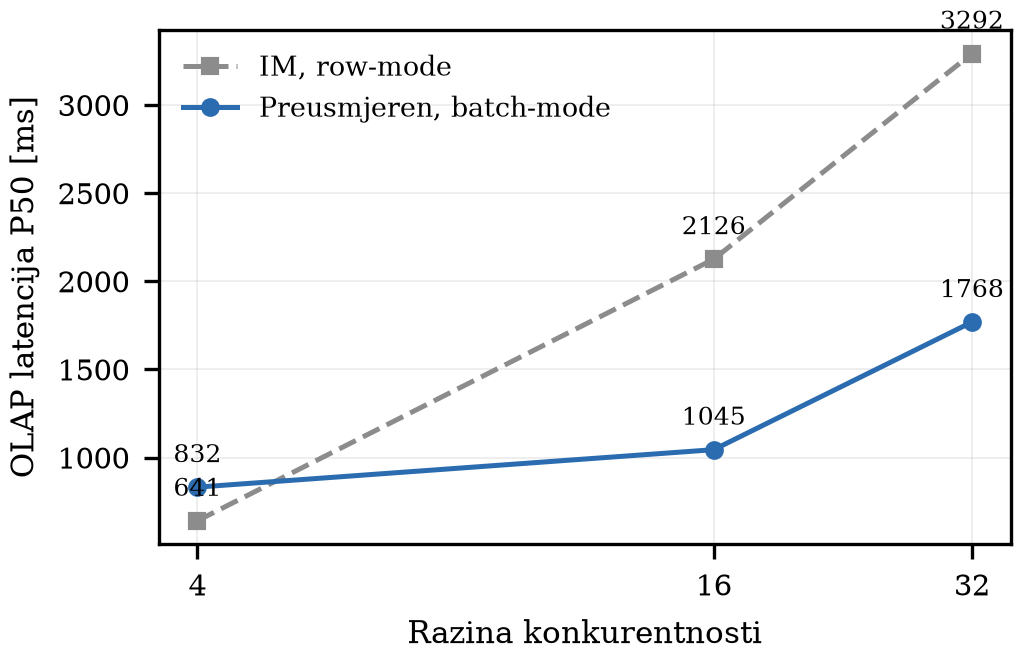
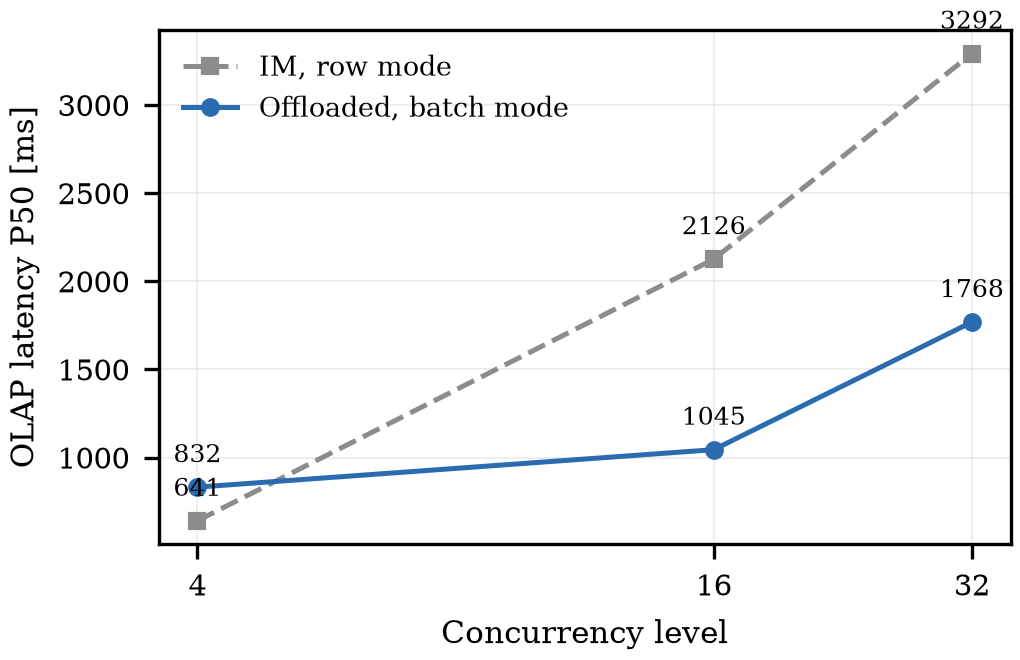
Address review: English figures, IQR bars, non-parametric effect size
Figure labels were in Bosnian while the paper is in English — corrected across
all three figures. The main figure gains interquartile error bars; symmetric
deviation bars would have implied the normality the tests rejected.

Adds 09_reviewer_followup.py, which computes what the review asked for:

Cliff's delta replaces Cohen's d. The paper paired Cohen's d with Mann-Whitney
while stating distributions are non-normal, and "Cohen's d over medians" is not
a defined quantity. Delta belongs to the same rank-based family and equals the
rank-biserial correlation. For the uncontrolled comparison it is 0.989 at C=4
and 1.000 at C=16 and C=32 — complete separation, which is what d values of 4
to 12 were really reporting.

Also computes: CXSYNC_PORT waits under MAXDOP 2, which decide whether the
paper's claim that MAXDOP 1 is required survives; CPU time per completed
analytical query, which separates "parallelism does less work" from
"parallelism drains the queue" as the causal account; the non-monotonic
collapse of the row-mode arms between C=16 and C=32 (baseline -37%, cs -32%,
im -18%, while the offloaded arm rises 22%); per-cell N, which ranges 28-30
rather than a flat 30; and the effect direction across all three workload
ratios, where it holds but is not monotone in concurrency.

Sections needing the control arm are reported as skipped — that data exists
only on the measurement machine and is not yet published.
[…]

Changed region(s): [[0.3951, 0.9394, 0.7598, 1.0], [0.0, 0.1515, 0.0608, 0.7273], [0.2431, 0.1212, 0.6078, 0.1818]]

diff --git a/Analysis/09_reviewer_followup.py b/Analysis/09_reviewer_followup.py
@@ -1,0 +1,272 @@
+"""
+09_reviewer_followup.py — analize koje traze primjedbe na rad.
+
+Svaka sekcija odgovara jednoj primjedbi:
+
+  1. VELICINA EFEKTA. Rad je koristio Cohenov d uz Mann-Whitney, a d je
+     parametrijska mjera preko sredina i pooled devijacije. Uz odbacenu
+     normalnost to je nekonzistentno. Ovdje se racuna Cliffova delta, koja
+     pripada istoj neparametrijskoj porodici kao Mann-Whitney, uz rank-biserial
+     korelaciju kao ekvivalentnu mjeru.
+
+  2. CXSYNC_PORT. Rad tvrdi da je MAXDOP 1 nuzan da se izbjegnu zastoji na
+     memorijsko-optimiziranim tabelama, a istovremeno pokazuje da MAXDOP 2 na
+     tim istim tabelama radi bolje. Ovdje se mjeri koliko tih cekanja zaista
+     ima pri DOP = 2, cime se tvrdnja ili potvrdjuje ili opovrgava.
+
+  3. KAUZALNI RACUN. Tvrdnja "upiti zavrse prije pa oslobode procesor" ne
+     objasnjava sama po sebi dobitak: dvostruko vise niti kroz upola krace
+     vrijeme daje istu trenutnu zauzetost. Ovdje se racuna procesorsko vrijeme
+     po ZAVRSENOM analitickom upitu i broj zavrsenih upita po runu, cime se
+     razlikuju dva objasnjenja:
+       (a) paralelni plan radi MANJE ukupnog posla  -> "paralelizam smanjuje rad"
+       (b) isti posao, ali se upiti pri DOP 1 gomilaju -> "paralelizam rastereti red"
+
+  4. NEMONOTONOST. Propusnost u row-mode rukama pada od C=16 ka C=32. To ide u
+     prilog tezi, ali znaci da dio dobitka nije "vise propusnosti" nego
+     "izbjegnut kolaps" — sto rad treba imenovati.
+
+  5. VELICINA UZORKA. Nisu sve celije imale 30 runova nakon iskljucenja.
+
+  6. SMJER EFEKTA PO OMJERIMA. Rad prikazuje samo 80/20.
+
+POKRETANJE
+----------
+  python Analysis/09_reviewer_followup.py
+"""
+
+from pathlib import Path
+
+import numpy as np
+import pandas as pd
+from scipy import stats
+
+ROOT = Path(__file__).resolve().parent.parent
+RESULTS = ROOT / "Results"
+OUT = RESULTS / "reviewer_followup.txt"
+
+RATIO = "80_20"
+CONCS = [4, 16, 32]
+
+lines: list[str] = []
+
+
+def emit(text: str = "") -> None:
+    print(text)
+    lines.append(text)
+
+
+def cliffs_delta(a: np.ndarray, b: np.ndarray) -> tuple[float, str]:
+    """
+    Cliffova delta: P(a > b) - P(a < b), u rasponu [-1, 1].
+
+    Racuna se preko Mann-Whitney U statistike, sto je egzaktno i izbjegava
+    kvadratno poredjenje svih parova: delta = 2U / (n1 n2) - 1.
+    """
+    n1, n2 = len(a), len(b)
+    if n1 == 0 or n2 == 0:
+        return float("nan"), "n/a"
+    u = stats.mannwhitneyu(a, b, alternative="two-sided").statistic
+    delta = 2.0 * u / (n1 * n2) - 1.0
+
+    ad = abs(delta)
+    if ad < 0.147:
+        label = "zanemariv"
+    elif ad < 0.33:
+        label = "mali"
+    elif ad < 0.474:
+        label = "srednji"
+    else:
+        label = "veliki"
+    return delta, label
+
+
+def load() -> pd.DataFrame:
+    frames = [pd.read_csv(RESULTS / "summary.csv")]
+    for arm in sorted(RESULTS.glob("summary_arm_*.csv")):
+        frames.append(pd.read_csv(arm))
+    df = pd.concat(frames, ignore_index=True)
+    df["Configuration"] = df["Configuration"].str.strip().str.lower()
+    return df[df["OltpSuccessRate"] >= 0.90]
+
+
+def cell(df: pd.DataFrame, cfg: str, col: str, conc: int,
+         ratio: str | None = RATIO) -> np.ndarray:
+    sel = (df.Configuration == cfg) & (df.ConcurrencyLevel == conc)
+    if ratio is not None:
+        sel &= df.OltpOlapRatio == ratio
+    return df.loc[sel, col].dropna().to_numpy()
+
+
+def med(df: pd.DataFrame, cfg: str, col: str, conc: int,
+        ratio: str | None = RATIO) -> float:
+    v = cell(df, cfg, col, conc, ratio)
+    return float(np.median(v)) if len(v) else float("nan")
+
+
+def section_effect_size(df: pd.DataFrame, present: set[str]) -> None:
+    emit("1. VELICINA EFEKTA — Cliffova delta umjesto Cohenovog d")
+    emit("-" * 74)
+    emit("   Delta = P(A > B) - P(A < B). Vrijednost 1,00 znaci potpunu separaciju:")
+    emit("   svaki run jedne ruke nadmasuje svaki run druge.")
+    emit("")
+
+    pairs = [("htap", "im@d2", "smjestaj (OFF vs IM-P)"),
+             ("im@d2", "im", "paralelizam (IM-P vs IM)"),
+             ("htap", "im", "nekontrolirano (OFF vs IM)")]
+
+    for a_cfg, b_cfg, label in pairs:
+        if a_cfg not in present or b_cfg not in present:
+            emit(f"   {label}: ruka nije izmjerena — preskacem")
+            continue
+        emit(f"   {label}")
+        for c in CONCS:
+            a, b = cell(df, a_cfg, "OltpThroughput", c), cell(df, b_cfg, "OltpThroughput", c)
+            if len(a) < 3 or len(b) < 3:
+                continue
+            delta, lab = cliffs_delta(a, b)
+            rb = delta  # rank-biserial korelacija je jednaka Cliffovoj delti
+            _, p = stats.mannwhitneyu(a, b, alternative="two-sided")
+            emit(f"     C={c:>2}: delta = {delta:+.3f} ({lab})   "
+                 f"rank-biserial = {rb:+.3f}   p = {p:.2e}   "
+                 f"N = {len(a)}/{len(b)}")
+        emit("")
+
+
+def section_cxsync(df: pd.DataFrame, present: set[str]) -> None:
+    emit("2. CXSYNC_PORT PRI MAXDOP 2 NA HEKATON TABELAMA")
+    emit("-" * 74)
+    if "im@d2" not in present or "CxSyncPortMs" not in df.columns:
+        emit("   Ruka im@d2 ili kolona brojaca nije dostupna — preskacem.\n")
+        return
+
+    emit("   Rad tvrdi da je MAXDOP 1 nuzan zbog ovih cekanja. Ako su pri DOP 2")
+    emit("   zanemariva, tvrdnju treba oslabiti; ako su znatna, treba objasniti")
+    emit("   zasto ruka svejedno radi bolje.")
+    emit("")
+    emit(f"   {'C':>3}  {'CXSYNC_PORT':>14}  {'CXPACKET+CONSUMER':>20}  {'udio u mjernoj fazi':>21}")
+    for c in CONCS:
+        cx = med(df, "im@d2", "CxSyncPortMs", c)
+        par = med(df, "im@d2", "ParallelismWaitMs", c)
+        if not np.isfinite(cx):
+            continue
+        emit(f"   {c:>3}  {cx / 1000:>11.2f} s  {par / 1000:>17.2f} s  "
+             f"{cx / 60000 * 100:>20.2f} %")
+    emit("")
+
+
+def section_causal(df: pd.DataFrame, present: set[str]) -> None:
+    emit("3. KAUZALNI RACUN — gdje odlazi procesorsko vrijeme")
+    emit("-" * 74)
+
+    emit("   (a) Zavrseni analiticki upiti po runu (medijan)")
+    emit(f"       {'C':>3}  {'IM (DOP 1)':>12}  {'IM-P (DOP 2)':>14}  {'OFF':>10}  {'IM-P / IM':>11}")
+    for c in CONCS:
+        im = med(df, "im", "OlapTotalOps", c)
+        imp = med(df, "im@d2", "OlapTotalOps", c) if "im@d2" in present else float("nan")
+        off = med(df, "htap", "OlapTotalOps", c)
+        ratio = imp / im if np.isfinite(imp) and im else float("nan")
+        emit(f"       {c:>3}  {im:>12,.0f}  {imp:>14,.0f}  {off:>10,.0f}  {ratio:>11.2f}")
+    emit("")
+
+    if "im@d2" in present and "OlapCpuMs" in df.columns:
+        emit("   (b) Procesorsko vrijeme po ZAVRSENOM analitickom upitu, ruka IM-P")
+        emit("       Ako je ovaj broj nizak, paralelni plan radi manje ukupnog posla;")
+        emit("       ako je visok, dobitak dolazi od rasterecenja reda cekanja.")
+        emit(f"       {'C':>3}  {'OLAP CPU (s)':>14}  {'upita':>8}  {'CPU po upitu (ms)':>19}")
+        for c in CONCS:
+            cpu = med(df, "im@d2", "OlapCpuMs", c)
+            ops = med(df, "im@d2", "OlapTotalOps", c)
+            if not np.isfinite(cpu) or not ops:
+                continue
+            emit(f"       {c:>3}  {cpu / 1000:>14.1f}  {ops:>8,.0f}  {cpu / ops:>19.1f}")
+        emit("")
+        emit("   NAPOMENA: isti broj za ruku IM (DOP 1) trazi ponovno mjerenje te")
+        emit("   ruke pod instrumentacijom. Bez njega se (a) i (b) ne mogu uporediti")
+        emit("   izmedju ruku, pa kauzalni racun ostaje nezatvoren.")
+    else:
+        emit("   (b) Brojaci za IM-P nisu dostupni — preskacem.")
+    emit("")
+
+
+def section_nonmonotonic(df: pd.DataFrame) -> None:
+    emit("4. NEMONOTONOST PROPUSNOSTI (omjer 80/20)")
+    emit("-" * 74)
+    emit(f"   {'konfiguracija':<14} {'C=4':>10} {'C=16':>10} {'C=32':>10}   C16 -> C32")
+    for cfg in ["baseline", "cs", "im", "im@d2", "htap"]:
+        v = [med(df, cfg, "OltpThroughput", c) for c in CONCS]
+        if not np.isfinite(v).all():
+            continue
+        change = (v[2] - v[1]) / v[1] * 100
+        trend = f"PAD {change:+.0f} %" if change < 0 else f"rast {change:+.0f} %"
+        emit(f"   {cfg:<14} {v[0]:>10,.0f} {v[1]:>10,.0f} {v[2]:>10,.0f}   {trend}")
+    emit("")
+    emit("   Row-mode ruke kolabiraju pri zasicenju, dok preusmjerena raste.")
+    emit("   Dio dobitka pri C=32 je stoga izbjegnut kolaps, a ne cist prirast.")
+    emit("")
+
+
+def section_sample_size(df: pd.DataFrame) -> None:
+    emit("5. VELICINA UZORKA PO CELIJI")
+    emit("-" * 74)
+    n = df[df.OltpOlapRatio == RATIO].groupby(["Configuration", "ConcurrencyLevel"]).size()
+    emit(f"   omjer 80/20: min N = {n.min()}, max N = {n.max()}, "
+         f"celija s N < 30: {(n < 30).sum()} od {len(n)}")
+    below = n[n < 30]
+    for (cfg, c), val in below.items():
+        emit(f"     {cfg} @ C={c}: N = {val}")
+    emit("")
+    emit("   Rad treba pisati 'do 30 po celiji' uz raspon, ne '30 po celiji'.")
+    emit("")
+
+
+def section_ratios(df: pd.DataFrame, present: set[str]) -> None:
+    emit("6. SMJER EFEKTA KROZ SVE OMJERE OPTERECENJA")
+    emit("-" * 74)
+    for label, a_cfg, b_cfg in [("nekontrolirano (OFF / IM)", "htap", "im"),
+                                ("paralelizam (IM-P / IM)", "im@d2", "im")]:
+        if a_cfg not in present or b_cfg not in present:
+            emit(f"   {label}: ruka nije izmjerena — preskacem")
+            continue
+        emit(f"   {label}")
+        for r in ["80_20", "50_50", "20_80"]:
+            vals = []
+            for c in CONCS:
+                a, b = med(df, a_cfg, "OltpThroughput", c, r), med(df, b_cfg, "OltpThroughput", c, r)
+                vals.append(a / b if b else float("nan"))
+            if not np.isfinite(vals).any():
+                emit(f"     {r}: nije mjereno")
+                continue
+            emit(f"     {r}: " + "  ".join(f"{v:.2f}x" for v in vals))
+        emit("")
+    emit("   Smjer efekta (> 1) treba potvrditi u tekstu i za ostale omjere,")
+    emit("   uz napomenu da velicina nije monotona po konkurentnosti.")
+    emit("")
+
+
+def main() -> None:
+    if not (RESULTS / "summary.csv").exists():
+        raise SystemExit(f"Nedostaje {RESULTS / 'summary.csv'}.")
+
+    df = load()
+    present = set(df.Configuration.unique())
+
+    emit("=" * 74)
+    emit("ODGOVORI NA PRIMJEDBE — izracunato iz sirovih mjerenja")
+    emit("=" * 74)
+    emit(f"konfiguracije u podacima: {', '.join(sorted(present))}")
+    emit("")
+
+    section_effect_size(df, present)
+    section_cxsync(df, present)
+    section_causal(df, present)
+    section_nonmonotonic(df)
+    section_sample_size(df)
+    section_ratios(df, present)
+
+    OUT.write_text("\n".join(lines), encoding="utf-8")
+    print(f"Izvjestaj: {OUT}")
+
+
+if __name__ == "__main__":
+    main()

diff --git a/Paper/Telfor2026/make_figures.py b/Paper/Telfor2026/make_figures.py
@@ -75,6 +75,16 @@ def med(df: pd.DataFrame, cfg: str, col: str, conc: int, ratio: str | None = RAT
     return float(vals.median()) if len(vals) else float("nan")
 
 
+def med_q(df: pd.DataFrame, cfg: str, col: str, conc: int, q: float,
+          ratio: str | None = RATIO) -> float:
+    """Kvantil unutar iste celije kao med() — za interkvartilne intervale."""
+    sel = (df.Configuration == cfg) & (df.ConcurrencyLevel == conc)
+    if ratio is not None:
+        sel &= df.OltpOlapRatio == ratio
+    v = df.loc[sel, col]
+    return float(v.quantile(q)) if len(v) else float("nan")
+
+
 def save(fig, name: str) -> None:
     OUT.mkdir(parents=True, exist_ok=True)
     fig.savefig(OUT / f"{name}.pdf")
@@ -96,9 +106,9 @@ def fig_two_levers(df: pd.DataFrame) -> None:
         print("  ! preskacem fig1_two_levers — nedostaje ruka im@d2")
         return
 
-    arms = [("im", "IM, OLAP na MAXDOP 1", C_ROW),
-            ("im@d2", "IM, OLAP na MAXDOP 2", C_PAR),
-            ("htap", "OLAP preusmjeren na columnstore", C_OFF)]
+    arms = [("im", "IM, OLAP at MAXDOP 1", C_ROW),
+            ("im@d2", "IM, OLAP at MAXDOP 2", C_PAR),
+            ("htap", "OLAP offloaded to columnstore", C_OFF)]
 
     x = np.arange(len(CONCS))
     width = 0.26
@@ -106,13 +116,22 @@ def fig_two_levers(df: pd.DataFrame) -> None:
     fig, ax = plt.subplots(figsize=(COL_W, 2.5))
     for k, (cfg, label, colour) in enumerate(arms):
         vals = [med(df, cfg, "OltpThroughput", c) for c in CONCS]
+        # Intervali su interkvartilni raspon oko medijana, dosljedno s
+        # neparametarskom analizom u radu; simetricna devijacija bi ovdje
+        # sugerirala normalnost koju su testovi odbacili.
+        lo = [med_q(df, cfg, "OltpThroughput", c, 0.25) for c in CONCS]
+        hi = [med_q(df, cfg, "OltpThroughput", c, 0.75) for c in CONCS]
+        err = np.array([[v - l for v, l in zip(vals, lo)],
+                        [h - v for v, h in zip(vals, hi)]])
         bars = ax.bar(x + (k - 1) * width, vals, width, label=label,
-                      color=colour, edgecolor="black", linewidth=0.4)
-        ax.bar_label(bars, fmt="%.0f", fontsize=5.5, padding=1, rotation=90)
+                      color=colour, edgecolor="black", linewidth=0.4,
+                      yerr=err, capsize=1.6,
+                      error_kw={"elinewidth": 0.6, "capthick": 0.6})
+        ax.bar_label(bars, fmt="%.0f", fontsize=5.5, padding=7, rotation=90)
 
     base = [med(df, "im", "OltpThroughput", c) for c in CONCS]
     top = [med(df, "htap", "OltpThroughput", c) for c in CONCS]
-    ax.set_ylim(0, np.nanmax(top) * 1.38)
+    ax.set_ylim(0, np.nanmax(top) * 1.52)
 
     ax.set_xticks(x, [f"C = {c}" for c in CONCS])
     ax.set_ylabel("OLTP throughput [ops/s]")
@@ -131,8 +150,8 @@ def fig_olap_crossover(df: pd.DataFrame) -> None:
     """
     fig, ax = plt.subplots(figsize=(COL_W, 2.2))
 
-    series = [("im", "IM, row-mode", C_ROW, "s", "--"),
-              ("htap", "Preusmjeren, batch-mode", C_OFF, "o", "-")]
+    series = [("im", "IM, row mode", C_ROW, "s", "--"),
+              ("htap", "Offloaded, batch mode", C_OFF, "o", "-")]
 
     for cfg, label, colour, marker, ls in series:
         vals = [med(df, cfg, "OlapLatencyP50", c, ratio=None) for c in CONCS]
@@ -144,8 +163,8 @@ def fig_olap_crossover(df: pd.DataFrame) -> None:
 
     ax.set_xscale("log", base=2)
     ax.set_xticks(CONCS, [str(c) for c in CONCS])
-    ax.set_xlabel("Razina konkurentnosti")
-    ax.set_ylabel("OLAP latencija P50 [ms]")
+    ax.set_xlabel("Concurrency level")
+    ax.set_ylabel("OLAP latency P50 [ms]")
     ax.legend(loc="upper left", frameon=False)
     fig.tight_layout(pad=0.3)
     save(fig, "fig2_olap_crossover")
@@ -177,9 +196,9 @@ def fig_cpu_evidence(df: pd.DataFrame) -> None:
     x = np.arange(len(CONCS))
 
     bars = ax.bar(x, share, 0.5, color=C_PAR, edgecolor="black", linewidth=0.4,
-                  label="Udio analitike u CPU vremenu")
+                  label="Analytical share of CPU time")
     ax.bar_label(bars, fmt="%.0f%%", fontsize=6, padding=1)
-    ax.set_ylabel("Udio analitike u CPU vremenu [%]")
+    ax.set_ylabel("Analytical share of CPU time [%]")
     ax.set_ylim(0, 118)
     ax.set_xticks(x, [f"C = {c}" for c in CONCS])
 
@@ -187,7 +206,7 @@ def fig_cpu_evidence(df: pd.DataFrame) -> None:
     ax2.plot(x, yield_s, color="#a02020", marker="o", ms=3.5, lw=1.3,
              label="SOS_SCHEDULER_YIELD")
     ax2.set_yscale("log")
-    ax2.set_ylabel("Scheduler yield [s / 60 s run]", color="#a02020")
+    ax2.set_ylabel("Scheduler yield [s per 60 s run]", color="#a02020")
     ax2.tick_params(axis="y", colors="#a02020")
     ax2.grid(False)
     for xi, v in zip(x, yield_s):
